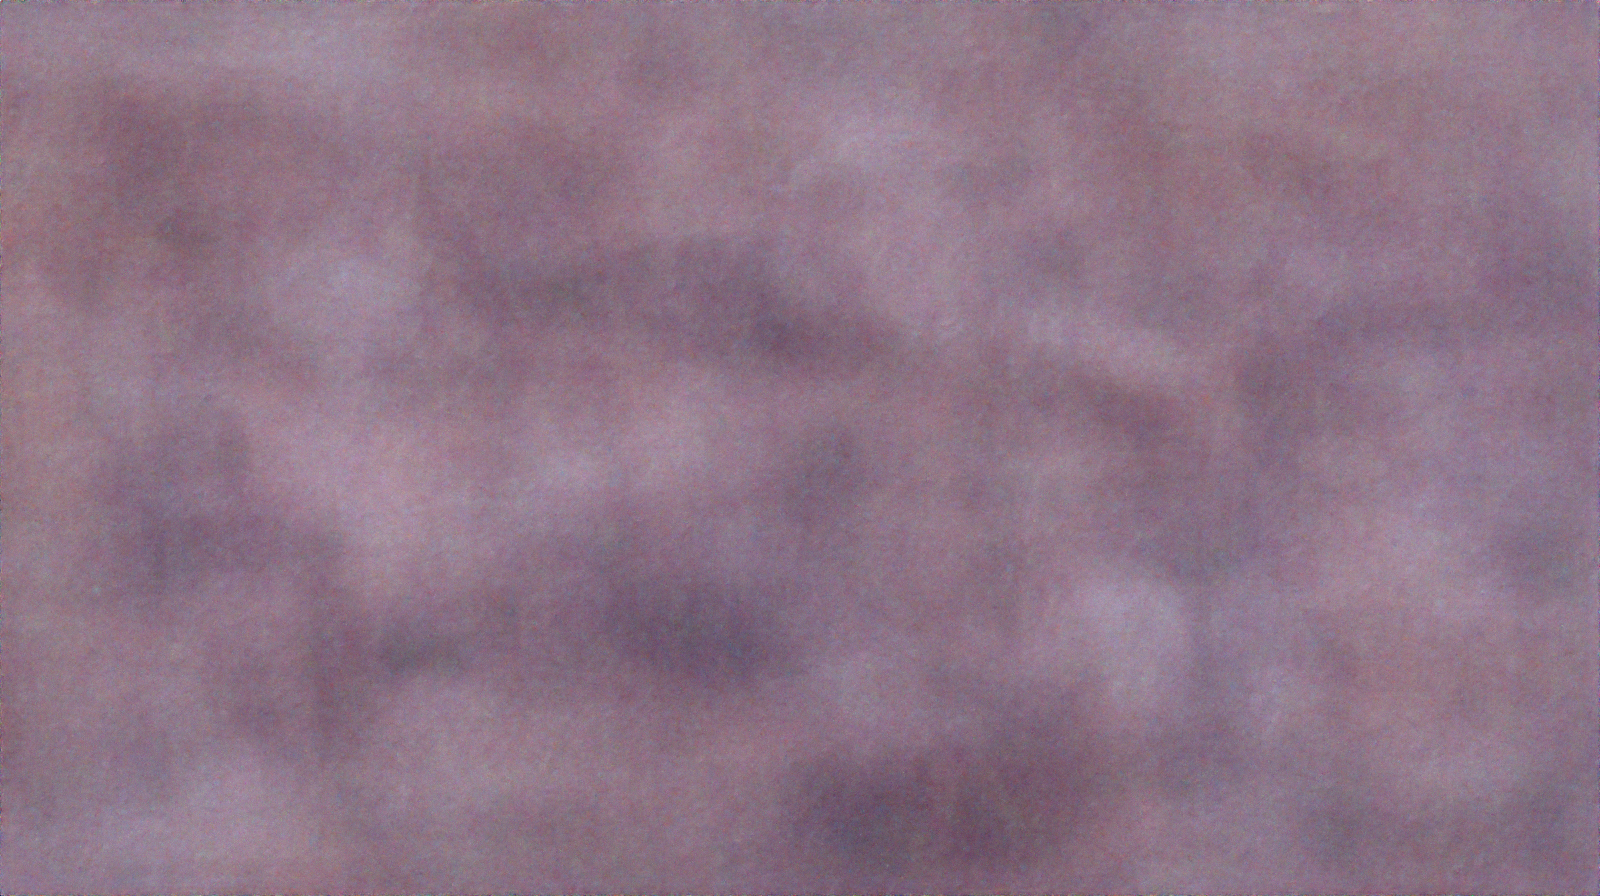
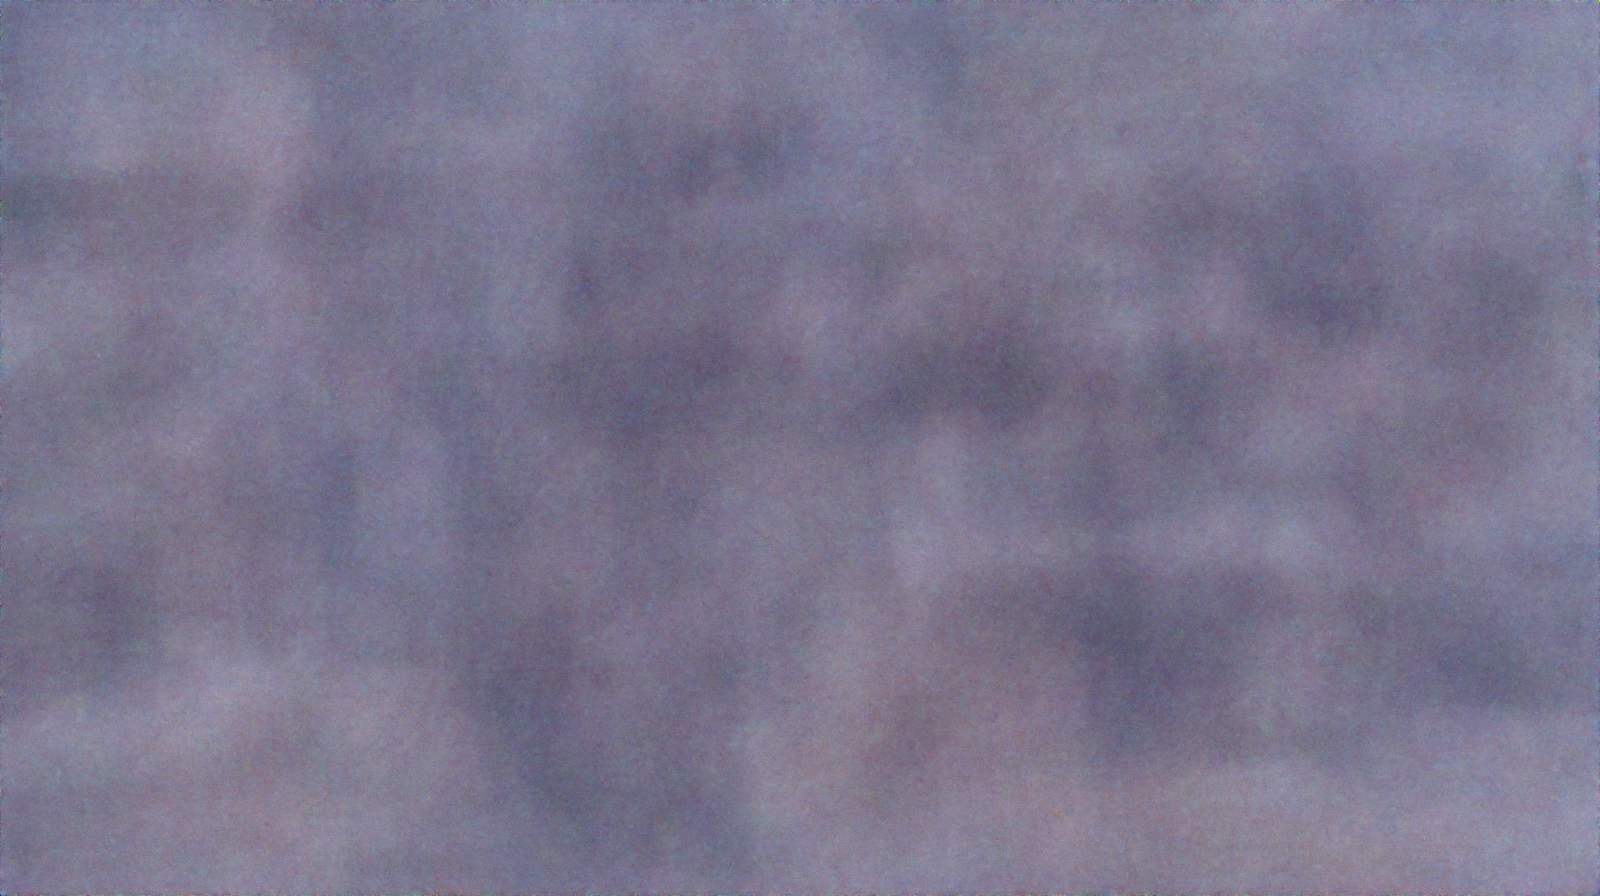
mum

diff --git a/main.py b/main.py
@@ -1229,9 +1229,8 @@ rand_mag = 0.05
 
 # %%
 text_prompts = [
-   "hyperrealistic Minnions visiting Turkey:8",
-   "by Pixar:5",
-   "by Disney:4",
+   "Cartoon Minnion visiting Turkey:8",
+   "VR 3D rendered in Unreal Engine:5"
 ]
 
 image_prompts = [ #currently disabled
